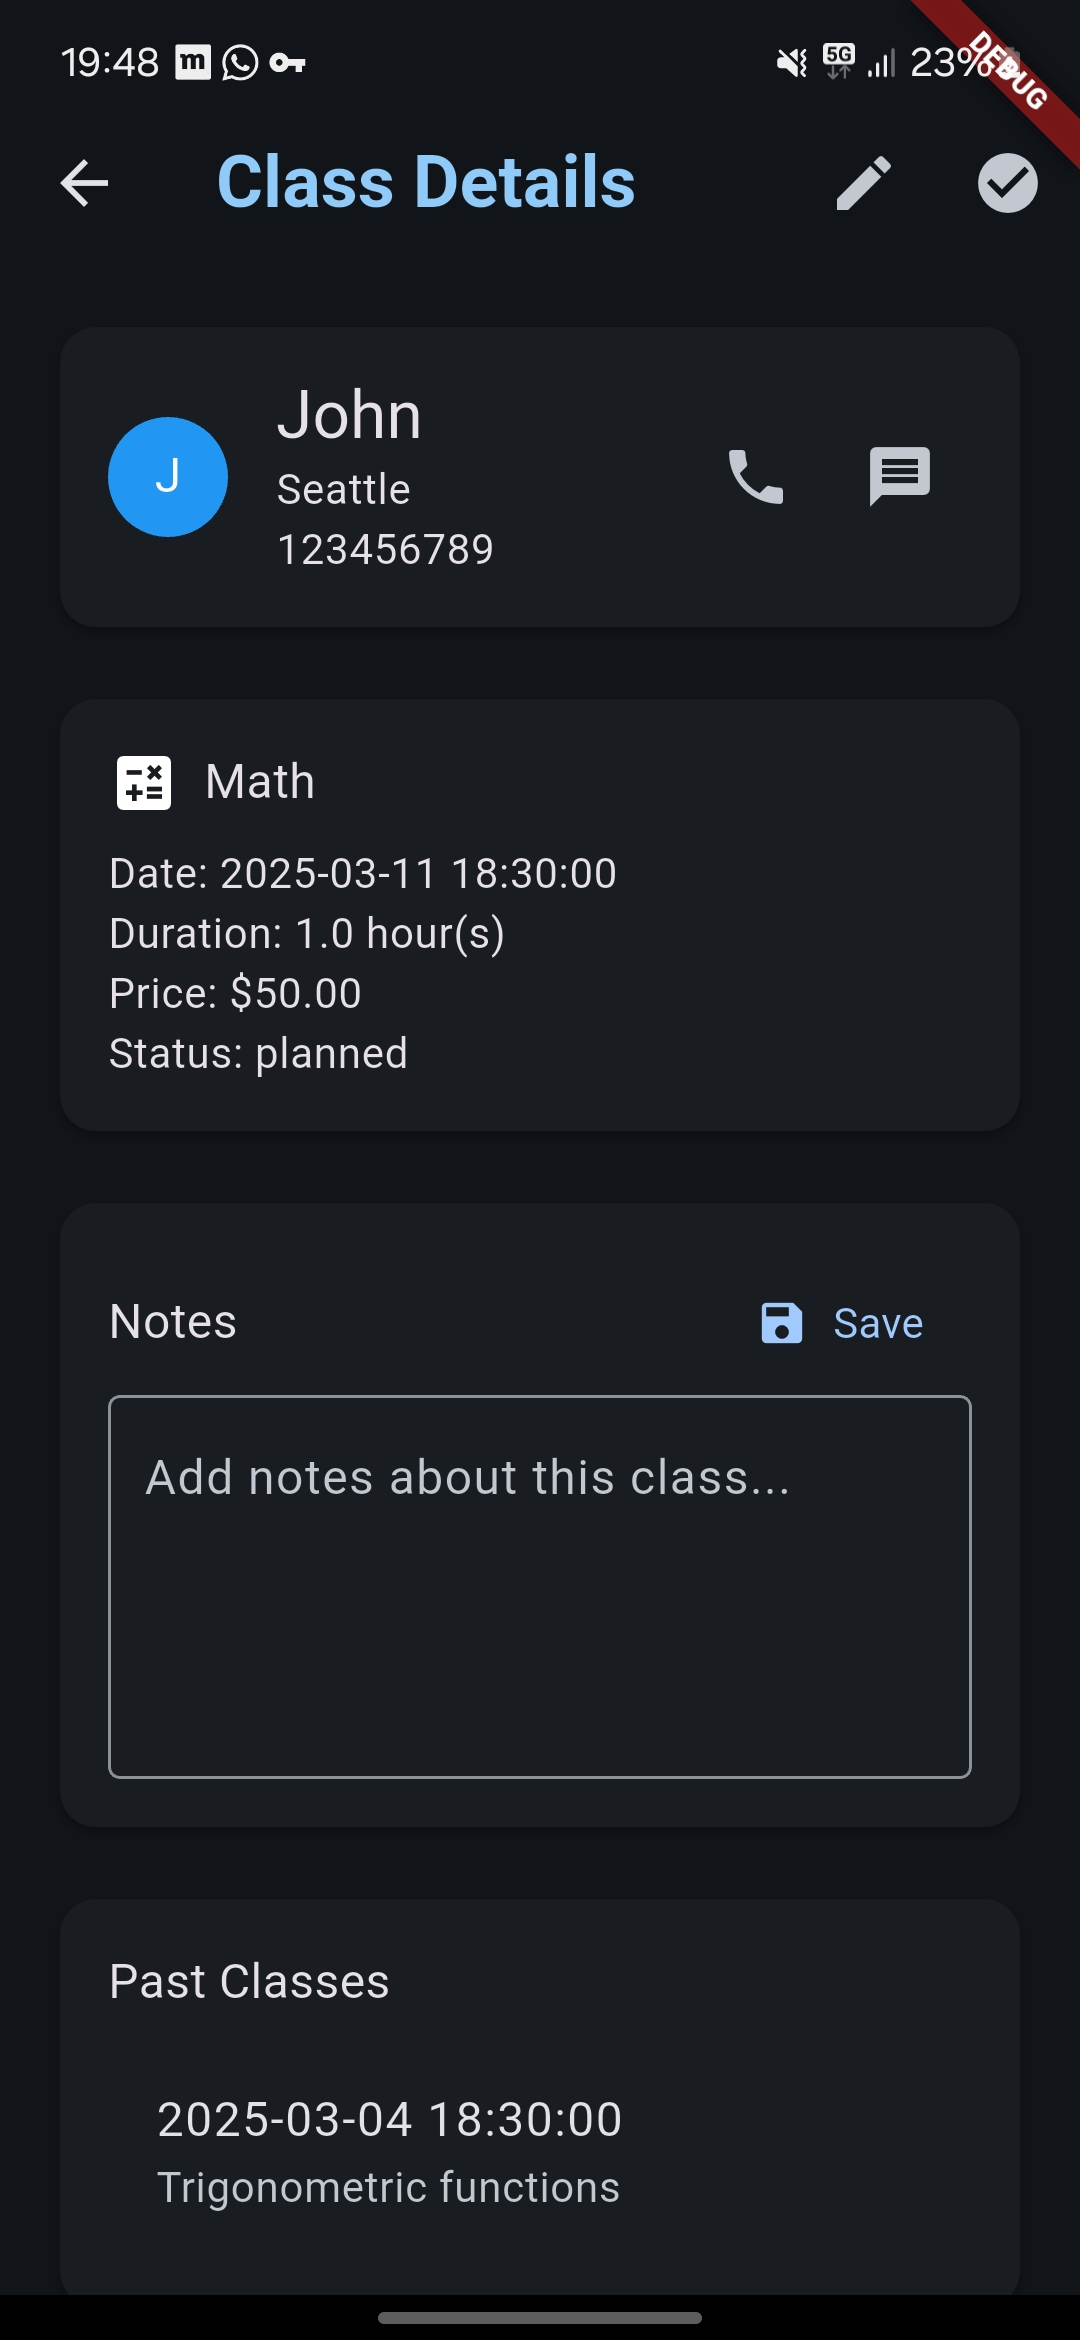
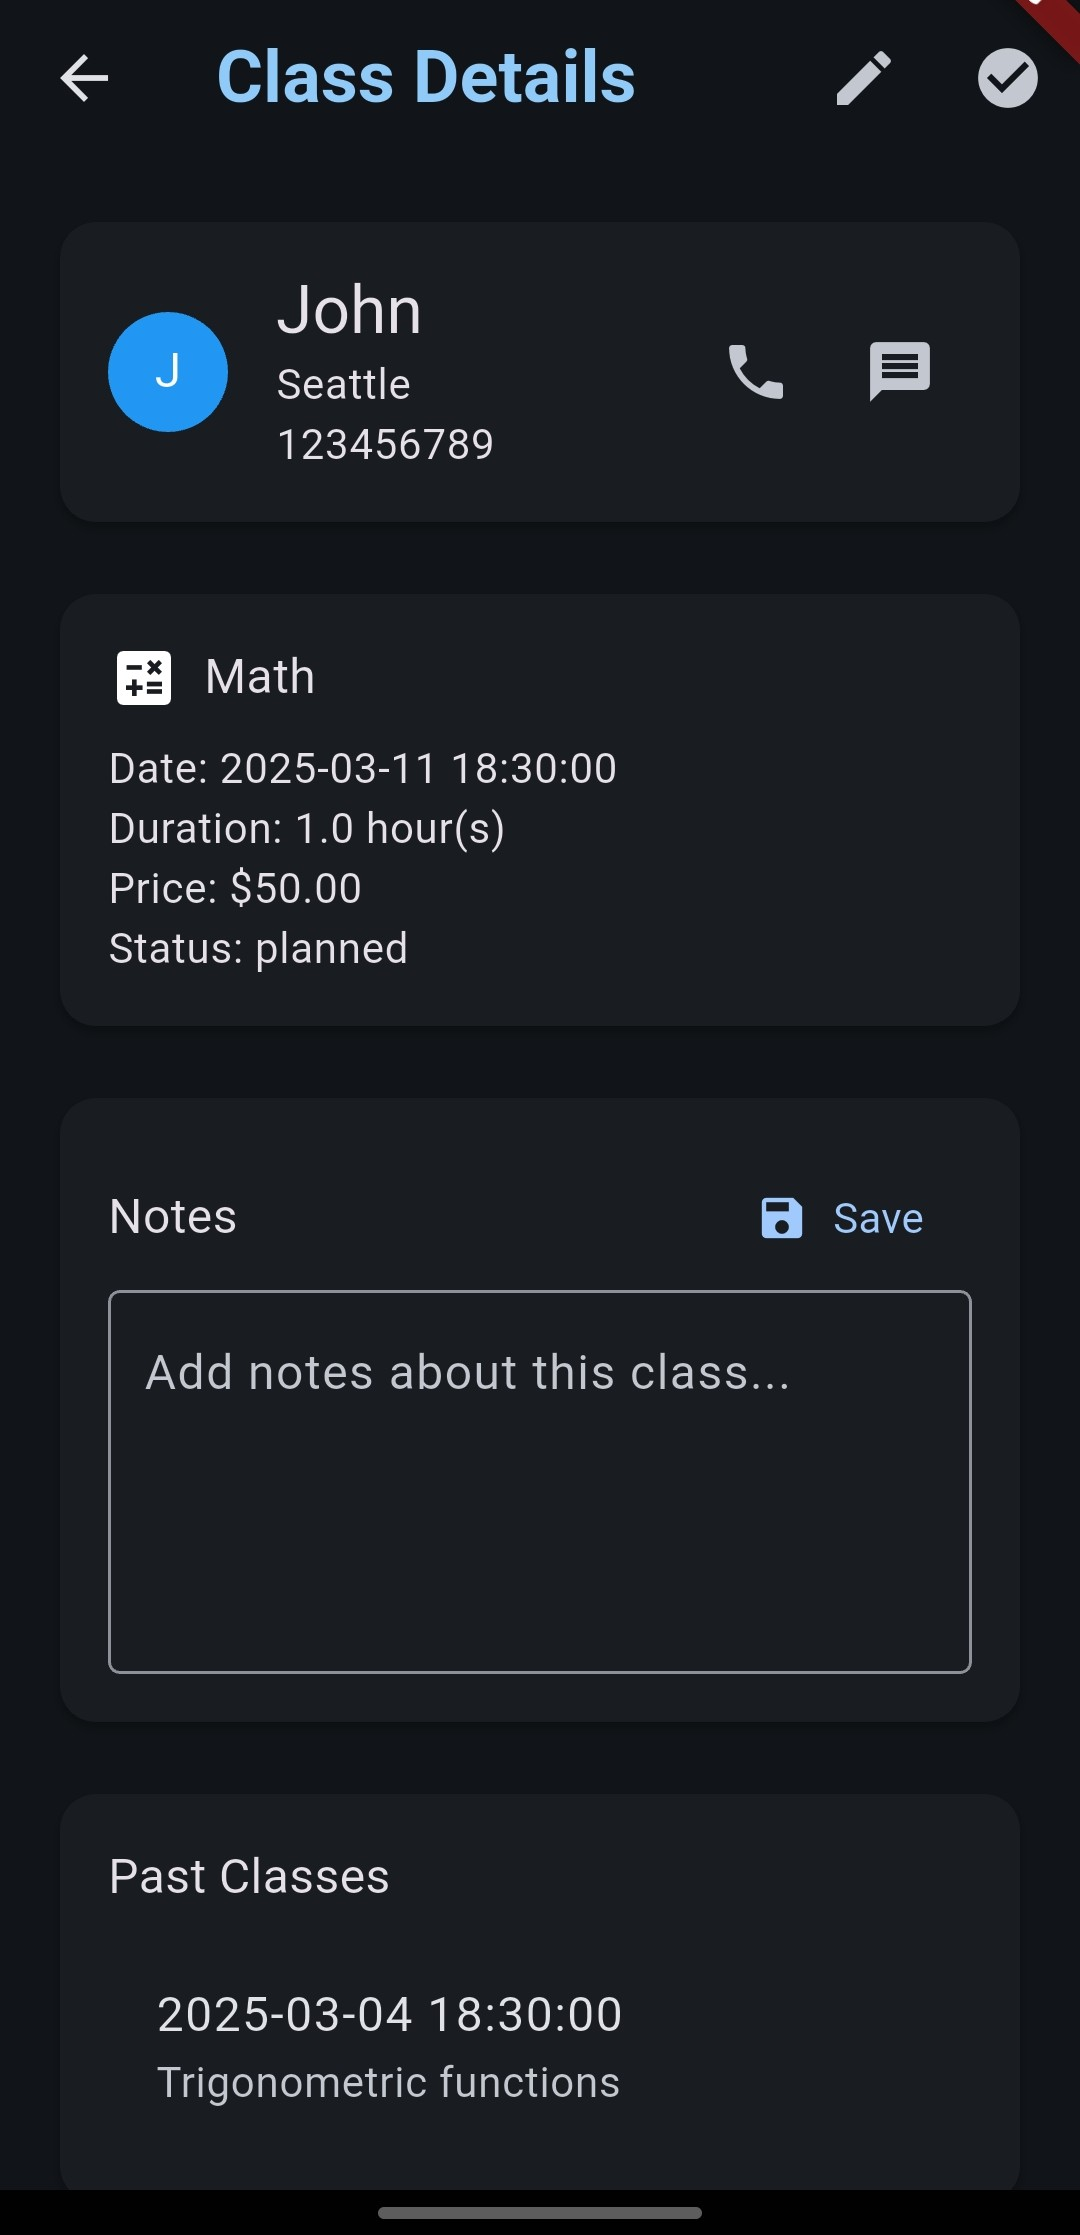
Update class details screenshots for light and dark themes

diff --git a/README.md b/README.md
@@ -138,6 +138,6 @@ This application was developed with the assistance of Cursor AI, a powerful AI-p
 
 ## Contact
 
-[Rafał Szczerba] - [rs.szczerba@hotmail.com]
+[Rafał Szczerba](https://github.com/RMaster121) - [rs.szczerba@hotmail.com](mailto:rs.szczerba@hotmail.com)
 
 Project Link: [https://github.com/RMaster121/classes_manager](https://github.com/RMaster121/classes_manager)
